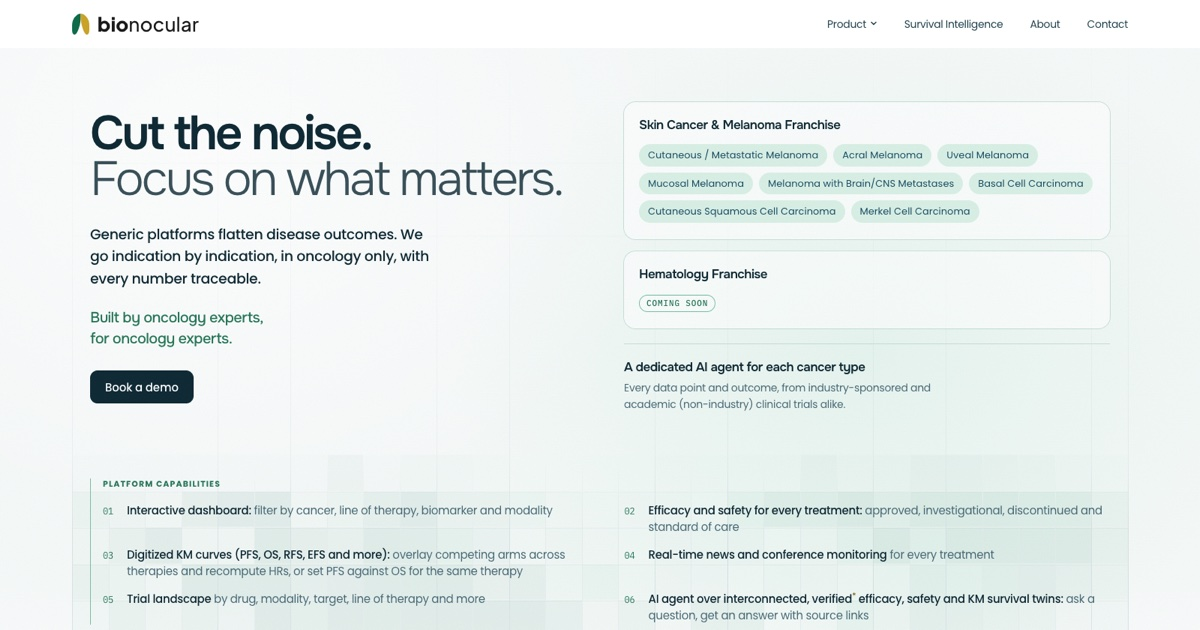
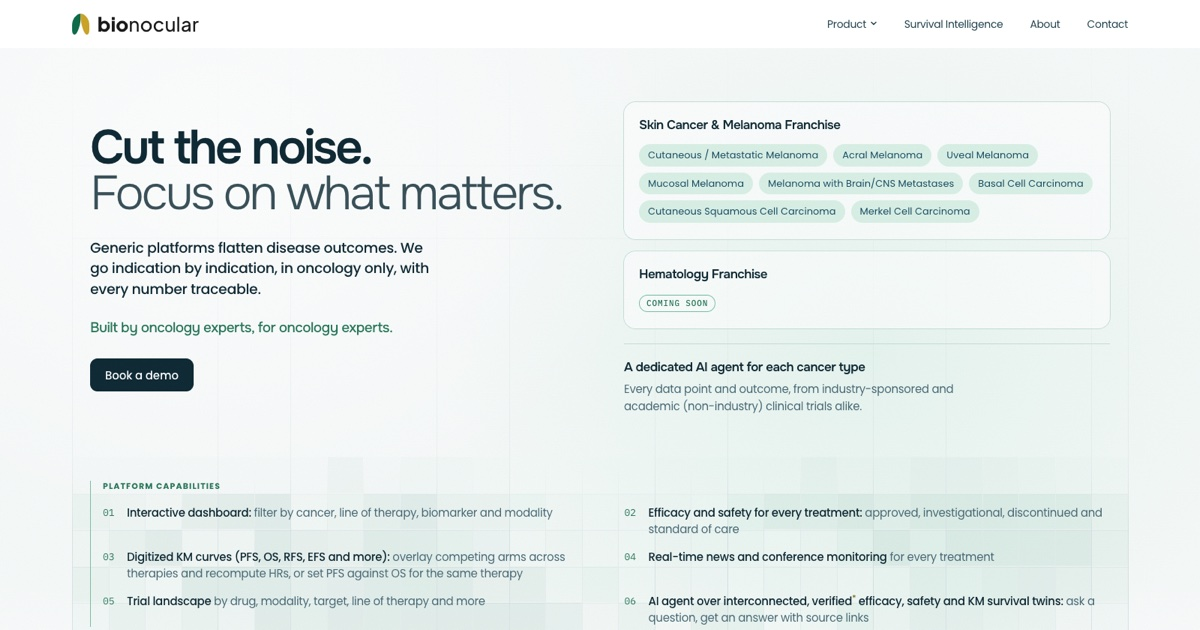
style(landing): tighten the hero type scale to six sizes
The tagline matches the lead's size, the lead's leading tightens to 1.45, the agent note moves to 15px and the footnote and capability numbers to 13px, and small dropdown and numeral text uses neutral tracking. The share image is retaken.

diff --git a/landing/styles.css b/landing/styles.css
@@ -79,12 +79,12 @@ a { color: inherit; }
 .dd-cols { display: grid; grid-template-columns: 19rem 1fr; gap: 1rem; }
 .dd-tabs, .dd-types { list-style: none; margin: 0; padding: 0; }
 .dd-tabs { display: grid; gap: .25rem; align-content: start; }
-.dd-tabs li { display: flex; align-items: center; justify-content: space-between; gap: .375rem; padding: .625rem .75rem; border-radius: 10px; line-height: 1.3; }
+.dd-tabs li { display: flex; align-items: center; justify-content: space-between; gap: .375rem; padding: .625rem .75rem; border-radius: 10px; line-height: 1.3; letter-spacing: 0; }
 .dd-tabs .on { background: var(--tint); color: var(--primary); font-weight: 500; }
 .dd-tabs .off { color: var(--muted); }
 .dd-tabs .soon, .sheet-sub .soon { padding: .25rem .5rem; }
 .dd-types { padding-left: 1rem; border-left: 1px solid var(--hair); display: grid; align-content: start; }
-.dd-types li { padding: .3rem 0; color: var(--text); line-height: 1.35; }
+.dd-types li { padding: .3rem 0; color: var(--text); line-height: 1.35; letter-spacing: 0; }
 /* In the phone sheet the franchises sit indented under Product, the cancer types folded away. */
 .sheet-sub { display: grid; gap: .125rem; margin: -.25rem 0 .25rem 1rem; padding-left: 1rem; border-left: 1px solid var(--hair); font-size: .9375rem; }
 .sheet-sub .dd-h { margin: .375rem 0; }
@@ -177,9 +177,9 @@ main::before { content: ""; position: absolute; z-index: 1; top: 0; left: var(--
 @media (min-width: 1024px) { .hero-grid { grid-template-columns: minmax(0, 1fr) minmax(0, 1fr); } }
 .hero-copy { display: grid; grid-template-columns: minmax(0, 1fr); gap: 1.5rem; justify-items: start; }
 .hero .h1 .soft { display: block; text-wrap: balance; }
-.pitch { margin: .25rem 0 0; max-width: 29rem; font: 500 1.0625rem/1.55 var(--text-font); letter-spacing: -0.02em; color: var(--text); text-wrap: pretty; }
-.by { margin: 0; font: 500 1.125rem/1.4 var(--display); letter-spacing: -0.03em; color: var(--accent-text); text-wrap: balance; }
-@media (min-width: 768px) { .pitch { font-size: 1.1875rem; } .by { font-size: 1.25rem; } }
+.pitch { margin: .25rem 0 0; max-width: 29rem; font: 500 1.0625rem/1.45 var(--text-font); letter-spacing: -0.02em; color: var(--text); text-wrap: pretty; }
+.by { margin: 0; font: 500 1.0625rem/1.4 var(--display); letter-spacing: -0.03em; color: var(--accent-text); text-wrap: balance; }
+@media (min-width: 768px) { .pitch, .by { font-size: 1.1875rem; } }
 /* Press feedback lands on pointer-down and is quick, so the button answers the touch, not the release. */
 .btn { display: inline-flex; align-items: center; height: 44px; padding: 0 1.25rem; margin-top: .25rem; border-radius: 10px; background: var(--text); color: #fff;
   font: 500 .9375rem/1 var(--text-font); letter-spacing: -0.01em; text-decoration: none; transition: background-color .2s, transform .1s ease-out; }
@@ -195,7 +195,7 @@ main::before { content: ""; position: absolute; z-index: 1; top: 0; left: var(--
 .soon { display: inline-block; padding: .375rem .625rem; border-radius: 999px; box-shadow: inset 0 0 0 1px var(--accent); font: 500 .6875rem/1 var(--mono); letter-spacing: .08em; text-transform: uppercase; color: var(--accent-text); white-space: nowrap; }
 .agent { margin-top: .25rem; padding: 1.25rem 0 0; border-top: 1px solid var(--border); }
 .agent h2 { margin-bottom: .375rem; }
-.agent p { margin: 0; max-width: 30rem; font-size: .875rem; line-height: 1.55; color: var(--muted); }
+.agent p { margin: 0; max-width: 30rem; font-size: .9375rem; line-height: 1.55; color: var(--muted); }
 /* Platform capabilities sit on the heatmap band (script.js), two columns from tablets up. */
 .hero-caps { margin-top: clamp(3.5rem, 7vw, 5.5rem); }
 .hero-caps > .label { display: block; margin: 0; padding: 0 0 1rem 1rem; border-left: 1.5px solid var(--accent); color: var(--accent-text); }
@@ -203,9 +203,9 @@ main::before { content: ""; position: absolute; z-index: 1; top: 0; left: var(--
 @media (min-width: 768px) { .caps { grid-template-columns: 1fr 1fr; } }
 .caps li { display: grid; grid-template-columns: 2rem 1fr; }
 .caps b { font-weight: 500; color: var(--text); }
-.caps i { font: 400 .75rem/2 var(--mono); font-style: normal; color: var(--accent-text); }
+.caps i { font: 400 .8125rem/1.73 var(--mono); font-style: normal; letter-spacing: 0; color: var(--accent-text); }
 .caps-note { margin: 1.25rem 0 0; font-size: .8125rem; line-height: 1.5; letter-spacing: 0; color: var(--muted); }
-.caps-fn { margin: 1.5rem 0 0; font-size: .75rem; line-height: 1.5; letter-spacing: 0; color: var(--muted); }
+.caps-fn { margin: 1.5rem 0 0; font-size: .8125rem; line-height: 1.5; letter-spacing: 0; color: var(--muted); }
 .caps sup, .caps-note sup, .caps-fn sup { font-size: .7em; line-height: 0; color: var(--gold-ink); }
 .caps-close { margin: .75rem 0 0; font: 500 1.0625rem/1.4 var(--display); letter-spacing: -0.02em; color: var(--text); }
 

diff --git a/landing/index.html b/landing/index.html
@@ -11,7 +11,7 @@
   <meta property="og:description" content="Compare efficacy, safety and survival across oncology treatments, map the trial landscape, follow the news and ask an AI agent - in one place.">
   <meta property="og:type" content="website">
   <meta property="og:url" content="https://bionocular.ai/">
-  <meta property="og:image" content="https://bionocular.ai/og.jpg?v=20261113b">
+  <meta property="og:image" content="https://bionocular.ai/og.jpg?v=20261113c">
   <meta property="og:image:width" content="1200">
   <meta property="og:image:height" content="630">
   <meta property="og:image:alt" content="Bionocular.ai - cut the noise, focus on what matters: oncology intelligence by indication, with every number traceable.">
@@ -23,7 +23,7 @@
   <link rel="preload" href="fonts/onest-latin.woff2" as="font" type="font/woff2" crossorigin>
   <link rel="preload" href="fonts/poppins-latin-300.woff2" as="font" type="font/woff2" crossorigin>
   <link rel="preload" href="fonts/poppins-latin-400.woff2" as="font" type="font/woff2" crossorigin>
-  <link rel="stylesheet" href="styles.css?v=20261113e">
+  <link rel="stylesheet" href="styles.css?v=20261113f">
   <script src="data/km-checkmate067-pfs.js?v=20261015" defer></script>
   <script src="script.js?v=20261113b" defer></script>
 </head>
